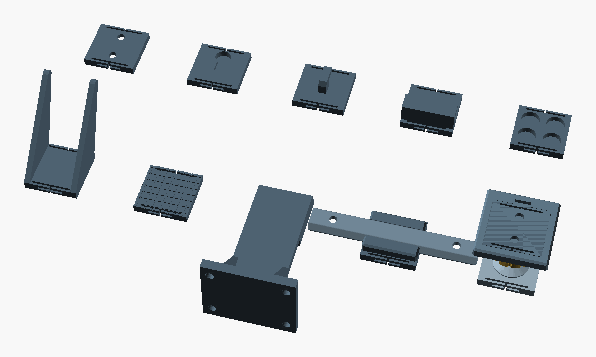
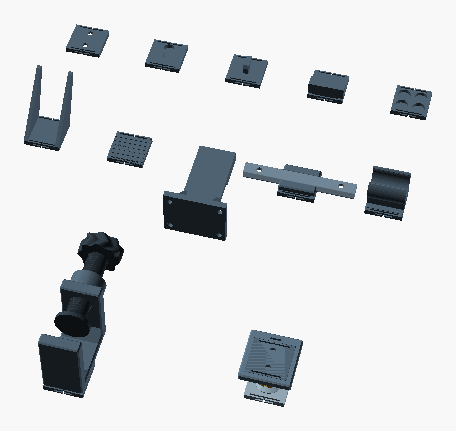
Attachment types clamp and pipe, and lib/thread.scad
- clamp: C-clamp behind the plate (spine, jaws, threaded boss, 45 degree gussets, chamfered edges, joined to the
  plate's middle only) with a printed screw (part attach_screw: wavy grip knob, 45 degree pad). clamp_gap,
  clamp_reach (back to the screw hole), clamp_screw (M10-M20).
- pipe: rounded snap-on claw for pipes, tubes and conduit; pipe_d, pipe_axis; opening chosen for about 1.5% strain
  (asserted < 2%), 45 degree lead-in tips.
- lib/thread.scad: printable ISO coarse threads as one helical surface (rod, threaded-hole cutter, nut trap, knobs);
  rod-in-hole checked for play.
- Offered in every project with mounting (_template, scoreboard, snooker_guide, attachments, custombox, earbuds,
  sunglasses) with settings, tests, docs and the attachment demo picture. Test run follows.

Claude-Session: https://claude.ai/code/session_01BryyDwfM7ihiyXXZZbYjqV

diff --git a/lib/README.md b/lib/README.md
@@ -7,10 +7,11 @@ Reusable OpenSCAD building blocks. Projects live in `projects/<name>/`, so they 
 |---|---|---|
 | `core.scad` | `include` in projects, `use` in lib files | atoms everything else builds on: `pick()` part selector, `slab(z1, z2)`, `affine2d(m)`, `mirror_pair()`, `csk_hole()` countersunk screw hole, `stroke_2d()` / `border_2d()` outlines, `sum()`, `polar()`, `qbez()`, `circle3()`, and the `COL_*` colour palette for `parts` tables |
 | `fits.scad` | `include` | ISO 286 fits: `fit_mid("H7", d)` for holes, `fit_mid("p6"/"k6"/"g6", d)` for shafts |
+| `thread.scad` | `use` | printable ISO metric threads (coarse pitch, M6–M30): `thread_rod()`, `thread_cutter()` (threaded hole), `thread_solid()`, `thread_nut_trap()` for a real nut, `thread_knob()` (wave / knurl / round grip); `thread_d()`, `thread_pitch()`, `THREAD_SIZES`. Always one watertight surface, fast in OpenSCAD 2021 |
 | `fonts.scad` | `use` | registers the bundled fonts (see `fonts/README.md`); `font_for("serif" / "serif bold" / "sans" / "sans bold" / "book serif bold" / "round sans bold")`; text metrics for letter-by-letter layout: `font_adv()`, `font_em()`, `font_cap()`, `text_len()`, `size_for_cap()` (tables in `fonts_metrics.scad`, generated by `tools/font_metrics.py`) |
 | `shapes.scad` | `use` | `plaque_2d(size, shape)` outlines: rect, rounded, chamfered, notched, arched, wave, scalloped. `profiled_slab(t, profile, r)` routed top edge: flat, roundover, chamfer, cove, ogee. `profiled_slab2()` profiles on top and bottom edges. `outline_groove()` single/double decorative groove. `has_edge_wave(shape)`. |
 | `rail.scad` | `use` | T-rail + sliding marker system: `t_rail()` (flat, rounded or beveled top), `rail_slider()` (block, rounded, arrow or knob body; triangle, needle or no pointer), `stop_peg()` / `twin_peg()` stoppers (screw, dome, flat, hex or ball head). One `rail = [flange_w, flange_t, web_w, web_h]` spec keeps them fitting. |
-| `attach.scad` | `use` | universal mounting. Host side: `attach_xs()` (spread sockets, avoid zones, Skådis grid), `attach_y()`, `attach_fit()` + `attach_note()` (use the plate size that fits, warn instead of stopping), `attach_sockets()` cutter, `attach_plates()` (all plates seated), `attach_opts()`, `attach_rows()` (all part rows), `attach_all()` (draws every attachment part in one line). Plates: `attach_plate(type, size)` in wall, keyhole, skadis, hook, magnet, stand, flat, roof, slide or fin; `slide_track()`, `slide_fin()`; optional ball joint (`ball_plate()`, `ball_adapter()`, `ball_ring()`). Plates snap in. Sizes S 30×30, M 45×40, L 60×50 mm. |
+| `attach.scad` | `use` | universal mounting. Host side: `attach_xs()` (spread sockets, avoid zones, Skådis grid), `attach_y()`, `attach_fit()` + `attach_note()` (use the plate size that fits, warn instead of stopping), `attach_sockets()` cutter, `attach_plates()` (all plates seated), `attach_opts()`, `attach_rows()` (all part rows), `attach_all()` (draws every attachment part in one line). Plates: `attach_plate(type, size)` in wall, keyhole, skadis, hook, magnet, stand, flat, roof, slide, fin, clamp or pipe; `slide_track()`, `slide_fin()`; optional ball joint (`ball_plate()`, `ball_adapter()`, `ball_ring()`). Plates snap in. Sizes S 30×30, M 45×40, L 60×50 mm. |
 | `led.scad` | `use` | LED strip system from one cross-section: `led_track()` (glue or screw mount, side wire exit), `led_diffuser()` (flat or dome, snaps in), `led_key()` joiner, `led_end_cap()` with cable hole, `led_corner()` + `led_corner_diffuser()` (inward, outward, flat), `led_recess()` cutter to sink a track into a host |
 | `cable.scad` | `use` | `cable_clip()` (round, snap-in), `flat_cable_clip()`, `tie_mount()`, `cable_duct()` + `cable_duct_lid()` (snap), `cable_grommet()` (split); host cutters `cable_route(pts)`, `cable_notch()`, `cable_hole()`. Adhesive or M3-screw mounting |
 | `emblem.scad` | `use` | badge/logo generators: `leaf_2d()` (measured classic laurel leaf), `laurel_wreath_2d()` / `laurel_branch_2d()` (repeating inner + 2 outer leaf groups, or an explicit leaf list via `laurel_leaves_2d()`), `ribbon_banner_2d(banner_spec(w))` (arched band, swallowtail tails, folds, bow with lens loops and crossing legs, corner ears; outline or filled; any width, or your own spec), `taper_ribbon_pts()`, `arc_text_2d()` (text on a circular baseline with real letter widths; upright or fanned letters, lean, and `max_len` to condense text that is too long), `pool_ball_2d()` (ring, number disc, crescent highlight, stripe; optional fitted numeral placement) |
@@ -343,7 +344,7 @@ container_walls(pts, t, H, rim, p, "through_cut", bands=[5, 3])             // w
 
 <img src="examples/images/attach_types.png" width="520" alt="Attachment plates">
 
-*Wall, keyhole, Skådis, hook, magnet, stand, flat, roof, slide plate on its track, and a wall plate on the ball joint.*
+*Wall, keyhole, Skådis, hook, magnet, stand, flat, roof, slide plate on its track, pipe claw, clamp with its screw, and a wall plate on the ball joint.*
 
 One socket, many plates. The host cuts `attach_socket(size)` into its back face (z=0, body at z>0). Push a plate
 straight in and it snaps: two flexible arms at each end (1.2 mm thick, bending 0.6 mm on the way in, under 1%
@@ -363,6 +364,8 @@ notch below it and lever it out. Keep plate features out of the end strips (`att
 | flat | glue or double-sided tape | grooved back for a better bond |
 | slide | a dovetail track with rounded edges, screwed to the wall (part `attach_track`) | `slide_axis` "horizontal": the channel runs through the plate, one long track carries all plates and the host can be slid along it; "vertical": the host is dropped onto a short track per plate and hangs on its upper end. `track_len` (0 = automatic). The host stands 5 mm off the wall. |
 | fin | a blade that anchors the host from below, e.g. between two sofa cushions (part `attach_track`: track + blade) | mounts on the host's BOTTOM (`attach_face(type) == "bottom"`): the socket is under the floor and the slide plate rides on the fin's track. `fin_len`, `fin_w`, `fin_t`. Needs a host with a floor (containers). |
+| clamp | a desk top, shelf, table edge or flat bar, gripped by a C-clamp with a printed screw (part `attach_screw`) | `clamp_gap` = opening between the jaws (thickest thing it grips), `clamp_reach` = from the clamp's back to the edge of the screw hole, `clamp_screw` = M10 / M12 / M16 / M20 (ISO coarse, printed). The screw has a wavy grip knob and a pad with a 45° underside; print it standing, knob down, in PETG. The jaws are as wide as the plate (at least the screw boss); inner corners have 45° gussets, outer edges are chamfered. |
+| pipe | a pipe, tube, round rail or conduit, snapped on | `pipe_d` = outer diameter, `pipe_axis` = "horizontal" / "vertical". A rounded claw with 45° lead-in tips; its opening (72–88% of the diameter) is chosen so the claw bends about 1.5% when pushed on (`pipe_strain()`, asserted under 2%). |
 
 **Ball joint** (`attach_joint = "ball"`, with any type): the host's socket takes a plate with a ball on a neck
 (`attach_ball`); the plate of the chosen type snaps into an adapter (`attach_joint`) whose slotted cup grips the

diff --git a/projects/attachments/README.md b/projects/attachments/README.md
@@ -1,6 +1,6 @@
 # Attachment plates
 
-<table><tr><td align="center"><img src="images/attachments.png" width="250" alt="wall plate and test coupon"><br><sub>wall plate and test coupon</sub></td><td align="center"><img src="images/attachments_slide.png" width="250" alt="slide plate on its track"><br><sub>slide plate on its track</sub></td><td align="center"><img src="images/attachments_fin.png" width="250" alt="fin"><br><sub>fin</sub></td></tr><tr><td align="center"><img src="images/attachments_ball.png" width="250" alt="ball joint with a Skådis plate"><br><sub>ball joint with a Skådis plate</sub></td></tr></table>
+<table><tr><td align="center"><img src="images/attachments.png" width="250" alt="wall plate and test coupon"><br><sub>wall plate and test coupon</sub></td><td align="center"><img src="images/attachments_slide.png" width="250" alt="slide plate on its track"><br><sub>slide plate on its track</sub></td><td align="center"><img src="images/attachments_fin.png" width="250" alt="fin"><br><sub>fin</sub></td></tr><tr><td align="center"><img src="images/attachments_ball.png" width="250" alt="ball joint with a Skådis plate"><br><sub>ball joint with a Skådis plate</sub></td></tr><tr><td align="center"><img src="images/attachments_clamp.png" width="250" alt="clamp"><br><sub>clamp with its printed screw</sub></td><td align="center"><img src="images/attachments_pipe.png" width="250" alt="pipe claw"><br><sub>pipe claw</sub></td></tr></table>
 
 **[Open the online configurator](https://tamaygz.github.io/tg_3d_modelling/attachments)** · or open `attachments_configurator.html` from this folder · [model](attachments.scad) · [print files](attachments_print) · [design log](attachments_log.md)
 
@@ -38,3 +38,12 @@ Rebuild and check with `python3 tools/build.py attachments --test` (variants in 
   (adapter: slotted cup + a standard socket for the plate) and `attach_ring` (lock ring). The report shows the cup
   strain (1.4% for the 16 mm ball, limit 2%), the tilt range and the stand-off. Print the coupon, a ball plate, an
   adapter and a ring first to check how firmly the ring clamps.
+
+## Clamp and pipe claw
+
+- `attach_type = "clamp"`: a C-clamp behind the plate for desk tops, shelves and flat bars. `clamp_gap` is the
+  opening between the jaws, `clamp_reach` how far it grips in (from its back to the edge of the screw hole), and
+  `clamp_screw` the printed screw (M10–M20). Part `attach_screw` is the screw with its grip knob and pad: print it
+  standing, knob down, in PETG; add a felt or rubber pad on the upper jaw and the screw pad to protect furniture.
+- `attach_type = "pipe"`: a rounded claw that snaps onto a pipe, tube or conduit of diameter `pipe_d`, running
+  horizontally or vertically (`pipe_axis`). The report shows how much the claw bends when pushed on (limit 2%).

diff --git a/CLAUDE.md b/CLAUDE.md
@@ -20,8 +20,9 @@ Read `README.md` (structure, tools, adding a project) and `lib/README.md` (libra
 - **Mounting:** hanging or standing projects use the attachment host helpers (`attach_fit` + `attach_note`:
   smaller plate or none with a WARNING, never an error; `attach_xs`, `attach_y`, `attach_sockets`, `each attach_rows(...)` in the parts table, one `attach_all(part, ...)`
   line to draw plates / track / ball joint) and expose `attach_type`, `attach_size`, `attach_count`,
-  `attach_joint`, `slide_axis`. Plates snap into the host; types include `slide` (track on the wall) and `fin`
-  (blade under the host: `attach_face(type) == "bottom"`, containers only). New plate types or joints go into
+  `attach_joint`, `slide_axis`. Plates snap into the host; types include `slide` (track on the wall), `fin`
+  (blade under the host: `attach_face(type) == "bottom"`, containers only), `clamp` (C-clamp + printed screw,
+  threads from `lib/thread.scad`) and `pipe` (snap-on claw, strain ≤ 2%). New plate types or joints go into
   `lib/attach.scad` so every project gets them; add them to each project's option list and tests.
 - **Fit, do not fail** (user request): a setting that does not fit is reduced or left out and reported
   (WARNING echo + a `report` line). `assert` only when no printable part can result. Compare lengths with a
@@ -130,7 +131,7 @@ Read `README.md` (structure, tools, adding a project) and `lib/README.md` (libra
 | `projects/snooker_guide` | v1, not printed yet | multi-colour relief plaque of the snooker setup with points |
 | `projects/bolavuit_logo` | v2, not printed yet | logo plaque: exact (from SVG) or rebuilt from lib/emblem (0.90 overlap) |
 | `projects/led_kit` | v1, not printed yet | LED tracks, diffusers, corners, cable parts |
-| `projects/attachments` | v4, not printed yet | test coupon + every attachment plate, slide track, fin, ball joint; print first to check the fits |
+| `projects/attachments` | v5, not printed yet | test coupon + every attachment plate, slide track, fin, clamp, pipe claw, ball joint; print first to check the fits |
 | `projects/pattern_gallery` | v1.3, not printed yet | catalogue + test bench of the 15 `lib/patterns.scad` patterns; views: gallery, sample, modes, box |
 | `projects/custombox` | v1.4, not printed yet | configurable box / basket / bin: outline, corners, sloped + wavy rim, patterned walls, floor, inset lid, mounting zone in the back wall |
 | `projects/earbuds` | v1.3, not printed yet | charging-case holder: presets (P31i …), poses, cable hole / dock / slot, grip cut-out, mounting zone |

diff --git a/projects/attachments/attachments_log.md b/projects/attachments/attachments_log.md
@@ -41,6 +41,13 @@
   chamfered. (3) Fin option now in every container project. (4) The fin was missing in the configurators because
   they read the parts list at default settings: the tools now read every possible part (`$all_parts`).
 
+## v5 (2026-11-22) – clamp and pipe claw
+- From the user's pictures (a printed C-clamp with a wavy knob, conduit clips M16–M32). Clamp: spine, upper jaw,
+  lower jaw with a threaded boss, 45° gussets, chamfered edges, joined only to the plate's middle (snap arms stay
+  free); printed screw with knob and 45° pad (new lib/thread.scad: ISO coarse threads as one helical surface,
+  0.25 mm play per side, checked: rod in its hole does not touch). Pipe claw: opening chosen for about 1.5% strain
+  (split-ring formula, asserted < 2%), 45° lead-in tips.
+
 ## Prints and feedback
 - (none yet)
 
